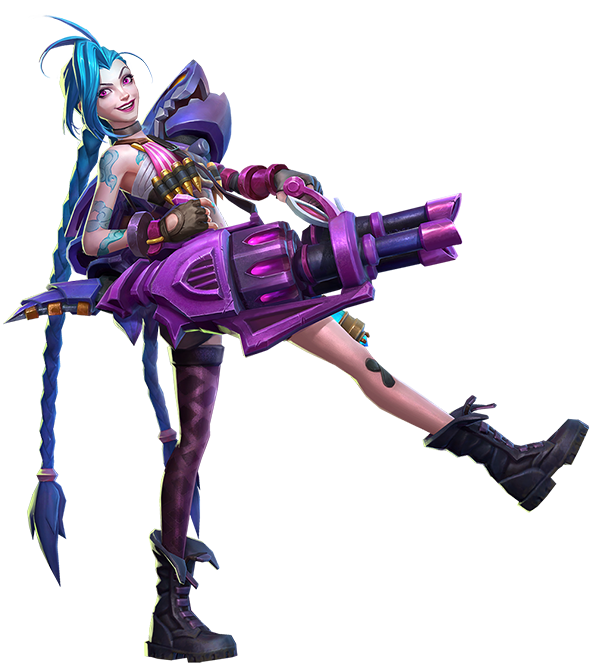
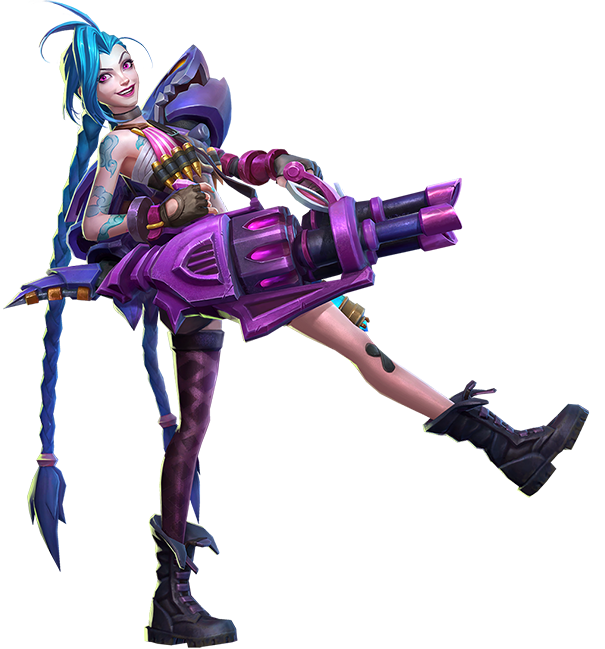
last commit

diff --git a/public/style.css b/public/style.css
@@ -1,9 +1,11 @@
+html {
+  -webkit-text-size-adjust: 100%;
+}
+
 body {
   margin: 0;
   padding: 0;
   overflow: hidden;
-  scrollbar-width: none;
-  -ms-overflow-style: none;
 }
 
 @font-face {
@@ -26,82 +28,7 @@ body {
   background-attachment: fixed;
   overflow: hidden;
 }
-@media (max-width: 500px) {
-  #start-page {
-    background: linear-gradient(180deg, #eeeeee 50%, #553285 50%);
-    display: flex;
-    flex-direction: column;
-    align-content: center;
-    height: 100vh;
-    justify-content: center;
-    background-size: cover;
-    margin: 0;
-    padding: 0;
-    overflow: hidden;
-  }
-  .text-container {
-    margin-top: 2em;
-  }
-  #start-page h1 {
-    font-size: 1.6em;
 
-    color: #bba5d7;
-    margin-right: 0;
-    margin-bottom: 1em;
-  }
-  .text-container {
-    padding: 1em;
-    width: 100%;
-  }
-  #span-h1 {
-    background-color: puple;
-  }
-  #start-page p {
-    font-size: 1em;
-    /* display: none; */
-    margin-left: 0.5em;
-  }
-  main span {
-    color: #1f1347 !important;
-    text-align: center;
-  }
-  #start-button {
-    background-color: #eeeeee;
-    border: none;
-    box-shadow: none;
-    color: #1f1347;
-    margin-bottom: 13em;
-  }
-  .card img {
-    width: 90%;
-    padding: 1em;
-  }
-} /*
-@media (max-width: 500px) {
-  #start-page {
-     background: linear-gradient(180deg, #eeeeee 40%, #553285 0%); 
-    border: 1px solid green;
-   background-size: cover; 
-    margin: 0;
-    padding: 0;
-    overflow: hidden;
-  }
-  .card {
-    grid-area: card;
-  }
-  .text-container {
-    grid-area: text-container;
-  }
-  #start-button {
-    grid-area: start-button;
-    margin-top: 0;
-    background-color: pink;
-  }
-  #start-page img {
-    width: 90%;
-  }
-}
-*/
 main img {
   width: 100%;
   height: auto;
@@ -116,11 +43,11 @@ h1 {
 p {
   font-family: Spiegel, 'Inter', sans-serif;
   font-size: 1em;
-  color: #bba5d7;
+  color: #333553;
   text-align: center;
 }
-main span {
-  /* color: #eeeeee; */
+#start-page p {
+  color: #bba5d7;
 }
 .card {
   display: flex;
@@ -159,6 +86,9 @@ text {
   justify-self: center;
   align-self: center;
   margin-bottom: 6em;
+  cursor: pointer;
+  animation: bounce 2s infinite;
+  animation-timing-function: ease-in-out;
 }
 
 .start-button:hover {
@@ -250,10 +180,12 @@ button:active {
 #last-page {
   display: flex;
   flex-direction: column;
-  justify-content: flex-start;
+  justify-content: center;
   align-items: center;
   height: 100vh;
-  background: linear-gradient(180deg, #eeeeee 90%, #553285 20%);
+  overflow: hidden;
+  background-attachment: fixed;
+  background: linear-gradient(180deg, #eeeeee 95%, #1f1347 20%);
 }
 .champion-card {
   width: 27em;
@@ -270,7 +202,7 @@ button:active {
   border-bottom-left-radius: 20px;
   display: flex;
   flex-direction: column;
-  justify-content: flex-start;
+  justify-content: center;
   /* background: rgba(255, 255, 255, 0.95); */
   background: rgb(5, 6, 45);
   /* background: rgba(17, 24, 39, 1); */
@@ -314,4 +246,150 @@ ul {
   color: #e5edf5;
   font-family: Beaufort, 'Inter', sans-serif;
   text-transform: uppercase;
+}
+@media (max-width: 720px) {
+  .text-container p {
+    color: #333 !important;
+  }
+}
+@media (max-width: 750px) {
+  #start-page {
+    background: linear-gradient(180deg, #eeeeee 50%, #553285 50%);
+    display: grid;
+    grid-template-columns: 1fr;
+    grid-template-rows: 0.6fr 1.4fr;
+    gap: 0;
+    background-size: cover;
+    margin: 0;
+    padding: 0;
+    overflow: hidden;
+  }
+
+  #start-page h1 {
+    font-size: 1.8em;
+    text-align: center;
+    color: #333;
+    padding: 0 1em;
+  }
+
+  #span-h1 {
+    background-color: puple;
+  }
+  #start-page p {
+    font-size: 1em;
+    margin-bottom: 8em;
+    text-align: center;
+    margin-left: 2em;
+  }
+  main span {
+    color: #553285 !important;
+    text-align: center;
+  }
+  #start-button {
+    background-color: #eeeeee;
+    border: none;
+    box-shadow: none;
+    color: #1f1347;
+  }
+  .card img {
+    width: 90%;
+    padding: 1em;
+  }
+}
+
+@media (max-width: 750px) {
+  #start-page {
+    background: linear-gradient(180deg, #eeeeee 40%, #553285 0%);
+    background-attachment: fixed;
+    background-size: cover;
+    margin: 0;
+    padding: 0;
+    overflow: hidden;
+  }
+  .card {
+    grid-area: card;
+  }
+  .text-container {
+    grid-area: text-container;
+  }
+  #start-button {
+    grid-area: start-button;
+  }
+  #start-page img {
+    width: 90%;
+  }
+}
+@media (min-width: 565px) and (max-width: 700px) {
+  #start-page h1 {
+    font-size: 2.2em;
+  }
+  .text-container p {
+    margin-bottom: 26em !important;
+  }
+}
+@media (min-width: 700px) and (max-width: 970px) {
+  #start-page h1 {
+    font-size: 2.6em;
+  }
+  .text-container p {
+    color: #bba5d7;
+  }
+  #img-2 {
+    margin-top: 15em;
+  }
+  #start-button {
+    margin-right: 20em;
+  }
+  .card-back img {
+    display: none;
+  }
+}
+@media (max-width: 950px) {
+  .quiz-container {
+    padding: 6em 4em;
+    width: 50%;
+  }
+}
+@media (max-width: 640px) {
+  #quiz-page {
+    background: linear-gradient(0deg, #eeeeee 60%, #553285 0%);
+  }
+  .quiz-container {
+    padding: 6em 4em;
+    width: 50%;
+  }
+  #quiz-page h2 {
+    font-size: 1em;
+  }
+  .champion-card {
+    margin: 5em;
+  }
+}
+@media (max-width: 500px) {
+  .quiz-container {
+    padding: 6em 4em;
+    width: 60%;
+    margin: 3em;
+  }
+  #quiz-page h2 {
+    font-size: 1em;
+  }
+  .champion-card {
+    width: 20em;
+  }
+}
+@keyframes bounce {
+  0%,
+  20%,
+  50%,
+  80%,
+  100% {
+    transform: translateY(0);
+  }
+  40% {
+    transform: translateY(-20px);
+  }
+  60% {
+    transform: translateY(-10px);
+  }
 }

diff --git a/public/index.html b/public/index.html
@@ -5,7 +5,7 @@
     <meta name="viewport" content="width=device-width, initial-scale=1.0" />
     <title>LOL Champ select</title>
     <link rel="stylesheet" type="text/css"  href="style.css" />
-    <link rel="icon" type="image/x-icon" href="icons8-league-of-legends.svg" />
+    <link rel="icon" type="image/x-icon" href="./assets/icons8-kindred-60.png"/>
  
   </head>
   <body>
@@ -13,14 +13,14 @@
       <div id="start-page">
         <div class="card">
           <picture>
-          <source media="(max-width: 699px)" srcset="./assets/Hero-mobile.png">
+
           <img src="./assets/jinx-back.png" alt="Jinx" />
           </picture>
         </div>
         <div class="card-back" hidden>
           <picture>
-            <source media="(max-width: 699px)" id="img-mobile" srcset="./assets/Hero-image-2.png">
-        <img src="./assets/champion_overview_jinx_og.png" alt="Jinx" />
+
+        <img src= "./assets/champion_overview_jinx_og.png"  id='img-2' alt="Jinx" />
           </picture>
         </div>
 

diff --git a/public/app.js b/public/app.js
@@ -17,10 +17,15 @@ const champCard = document.getElementById('champion-card');
 const choiceButtons = document.getElementById('choice-buttons');
 
 setTimeout(() => {
-  // if (window.innerWidth > 700) {
-  heroCard.style.display = 'none';
-  cardBack.style.display = 'block';
-  // }
+  if (window.innerWidth > 1000) {
+    heroCard.style.display = 'none';
+    cardBack.style.display = 'block';
+
+    setTimeout(() => {
+      heroCard.style.display = 'block';
+      cardBack.style.display = 'none';
+    }, 5000);
+  }
 }, 5000);
 
 champCard.addEventListener('mouseover', (event) => {
